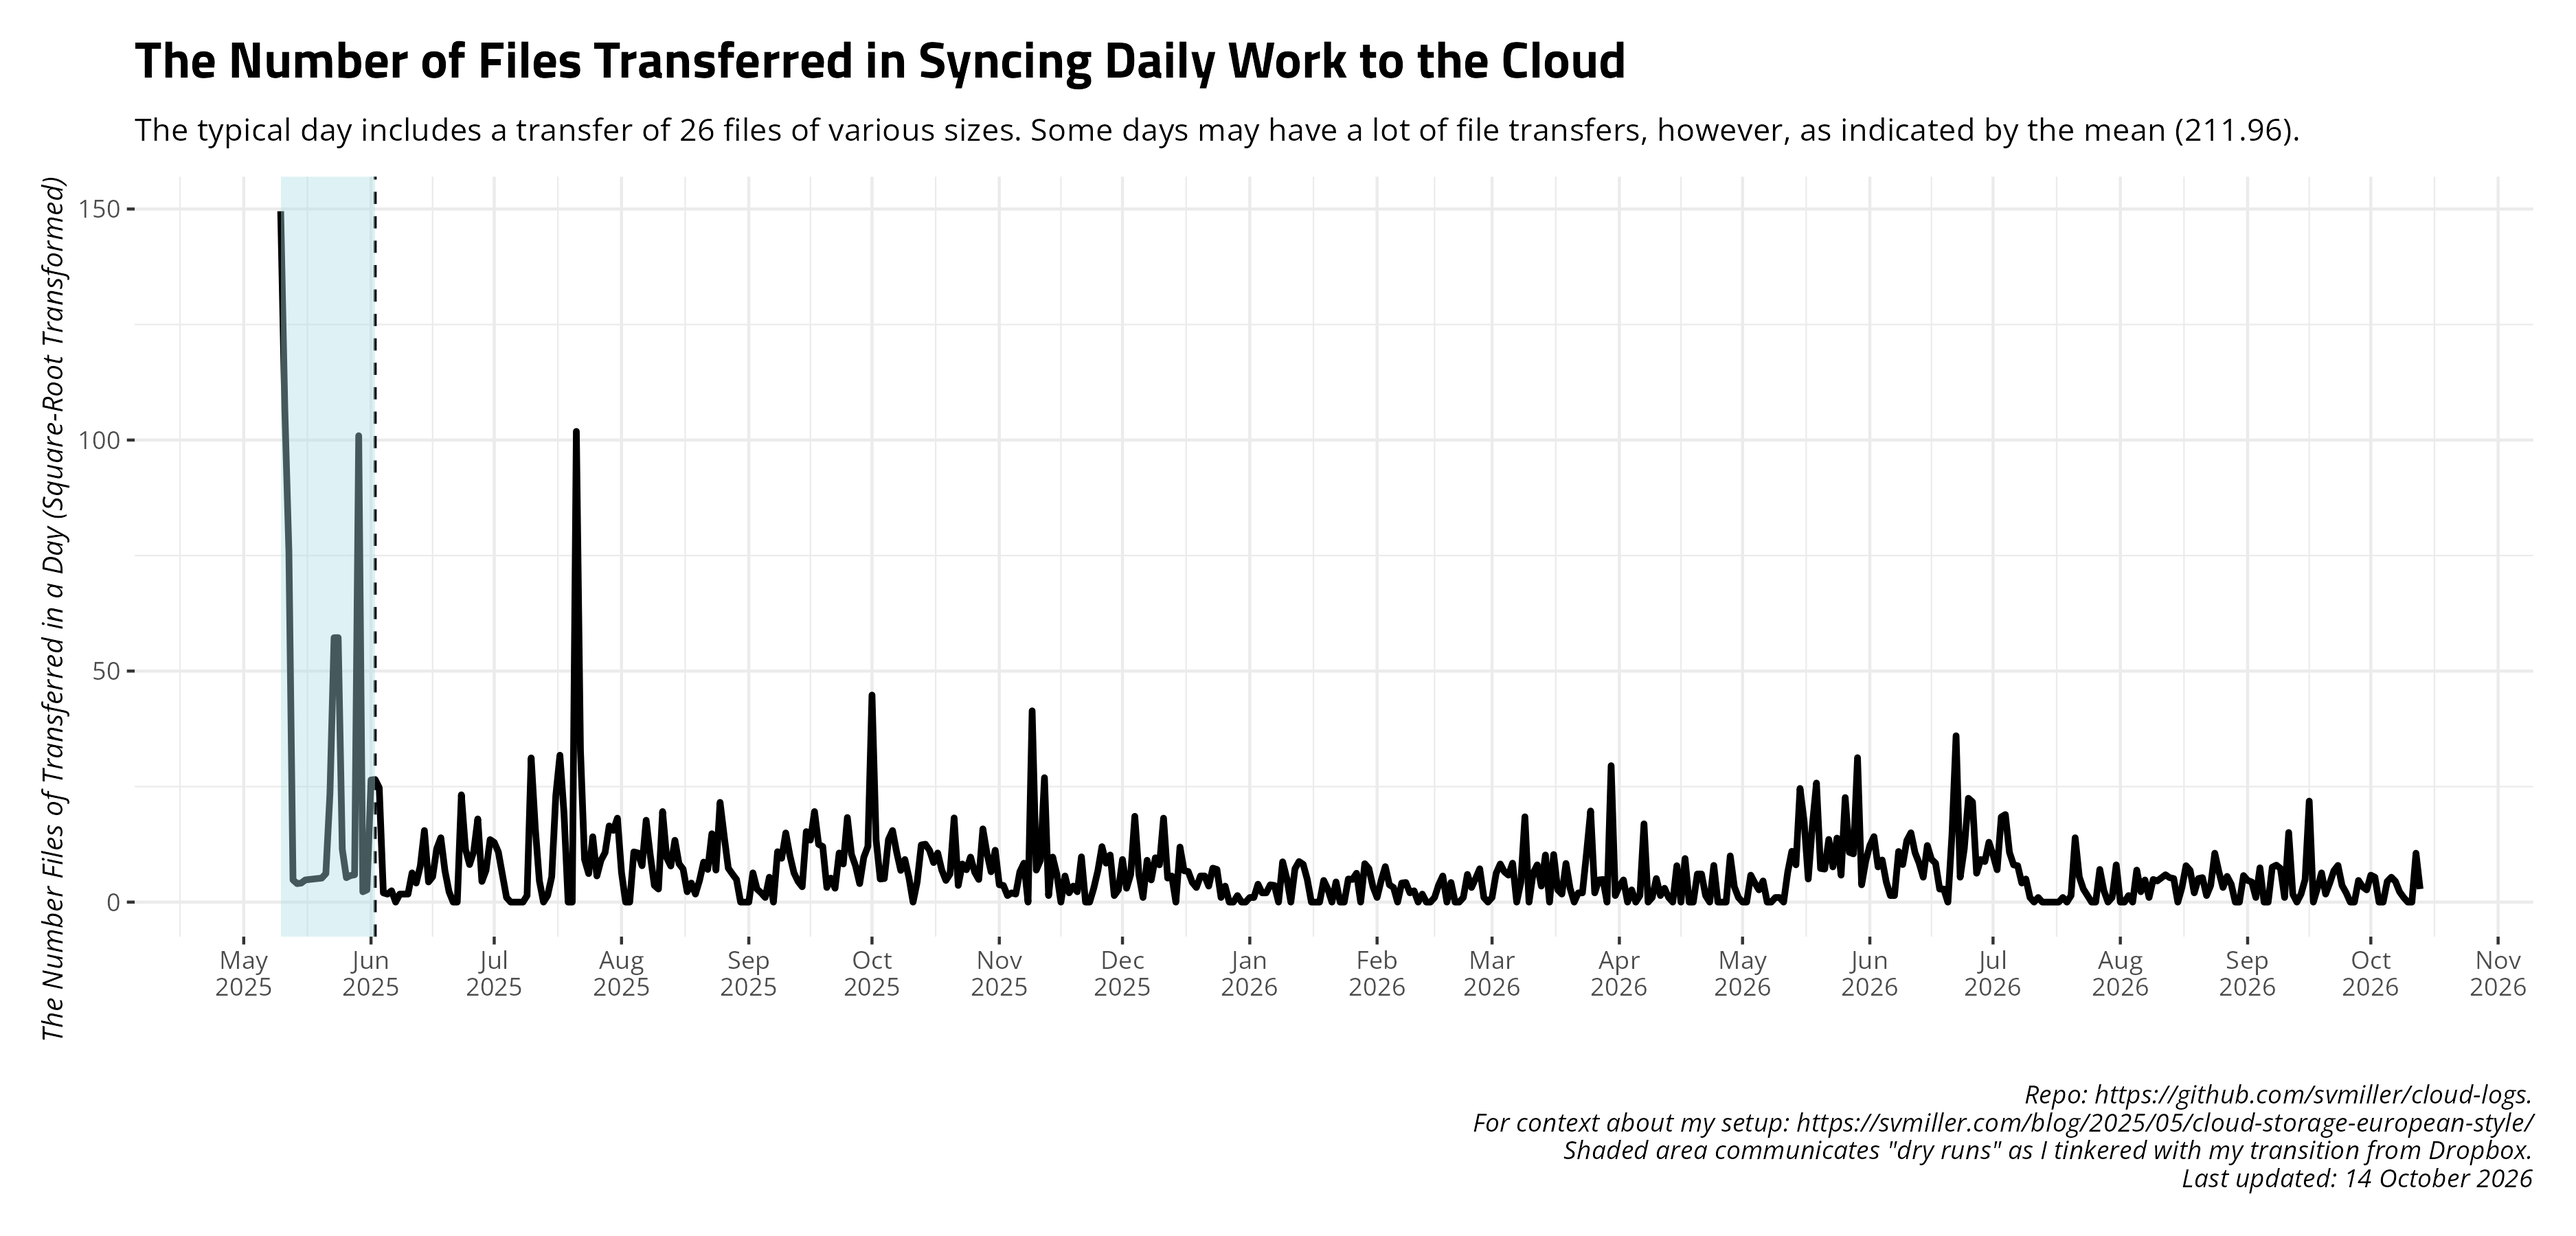
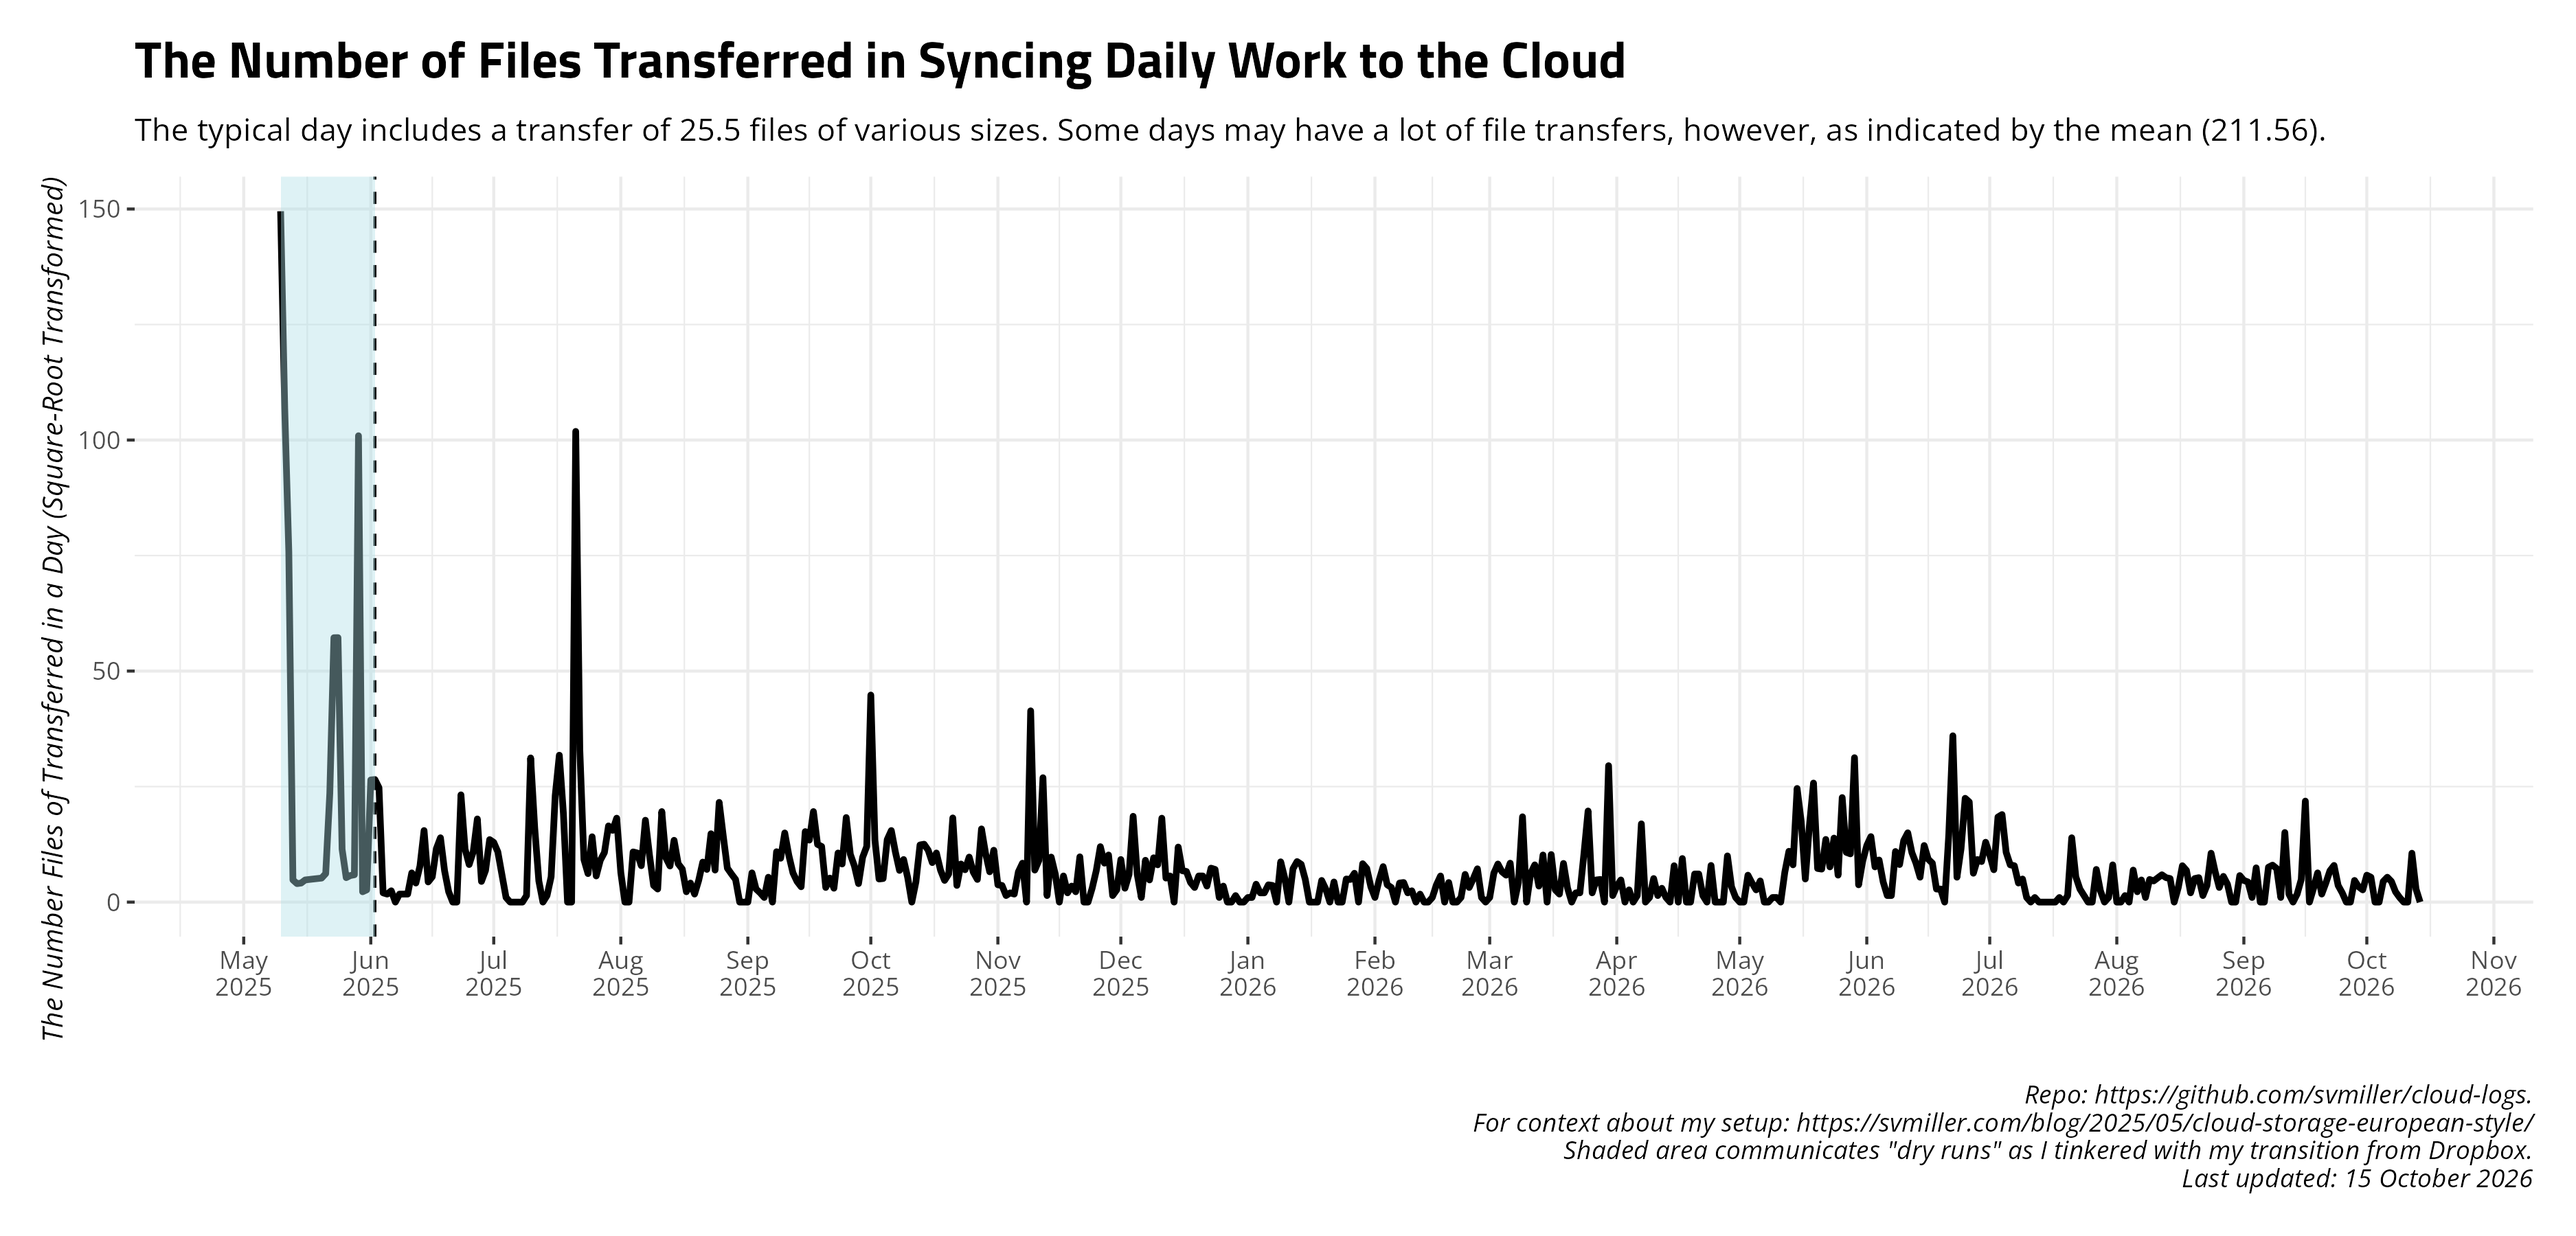
Date: 2026-10-15 09:00:36. Hi mom!

diff --git a/README.md b/README.md
@@ -27,17 +27,17 @@ and uploads to Github.
     #> # A tibble: 14 × 4
     #>    date       ftransfer stransfer   elapsed 
     #>    <date>         <dbl> <chr>       <chr>   
-    #>  1 2026-09-30         7 1.422 GiB   5m36.9s 
-    #>  2 2026-10-01        34 8.149 MiB   4m45.0s 
-    #>  3 2026-10-02        29 8.205 MiB   14m8.7s 
-    #>  4 2026-10-03         0 <NA>        4m42.9s 
-    #>  5 2026-10-04         0 <NA>        5m49.6s 
-    #>  6 2026-10-05        20 250.633 KiB 5m33.2s 
-    #>  7 2026-10-06        29 1.902 MiB   4m55.6s 
-    #>  8 2026-10-07        20 1.280 MiB   4m34.0s 
-    #>  9 2026-10-08         5 4.005 MiB   5m32.5s 
-    #> 10 2026-10-09         1 4.059 KiB   4m49.4s 
-    #> 11 2026-10-10         0 <NA>        4m23.0s 
-    #> 12 2026-10-11         0 <NA>        4m47.3s 
-    #> 13 2026-10-12       112 4.979 MiB   10m31.4s
-    #> 14 2026-10-13         8 124.477 MiB 47m23.4s
+    #>  1 2026-10-01        34 8.149 MiB   4m45.0s 
+    #>  2 2026-10-02        29 8.205 MiB   14m8.7s 
+    #>  3 2026-10-03         0 <NA>        4m42.9s 
+    #>  4 2026-10-04         0 <NA>        5m49.6s 
+    #>  5 2026-10-05        20 250.633 KiB 5m33.2s 
+    #>  6 2026-10-06        29 1.902 MiB   4m55.6s 
+    #>  7 2026-10-07        20 1.280 MiB   4m34.0s 
+    #>  8 2026-10-08         5 4.005 MiB   5m32.5s 
+    #>  9 2026-10-09         1 4.059 KiB   4m49.4s 
+    #> 10 2026-10-10         0 <NA>        4m23.0s 
+    #> 11 2026-10-11         0 <NA>        4m47.3s 
+    #> 12 2026-10-12       112 4.979 MiB   10m31.4s
+    #> 13 2026-10-13         8 124.477 MiB 47m23.4s
+    #> 14 2026-10-14         0 <NA>        27m16.0s
